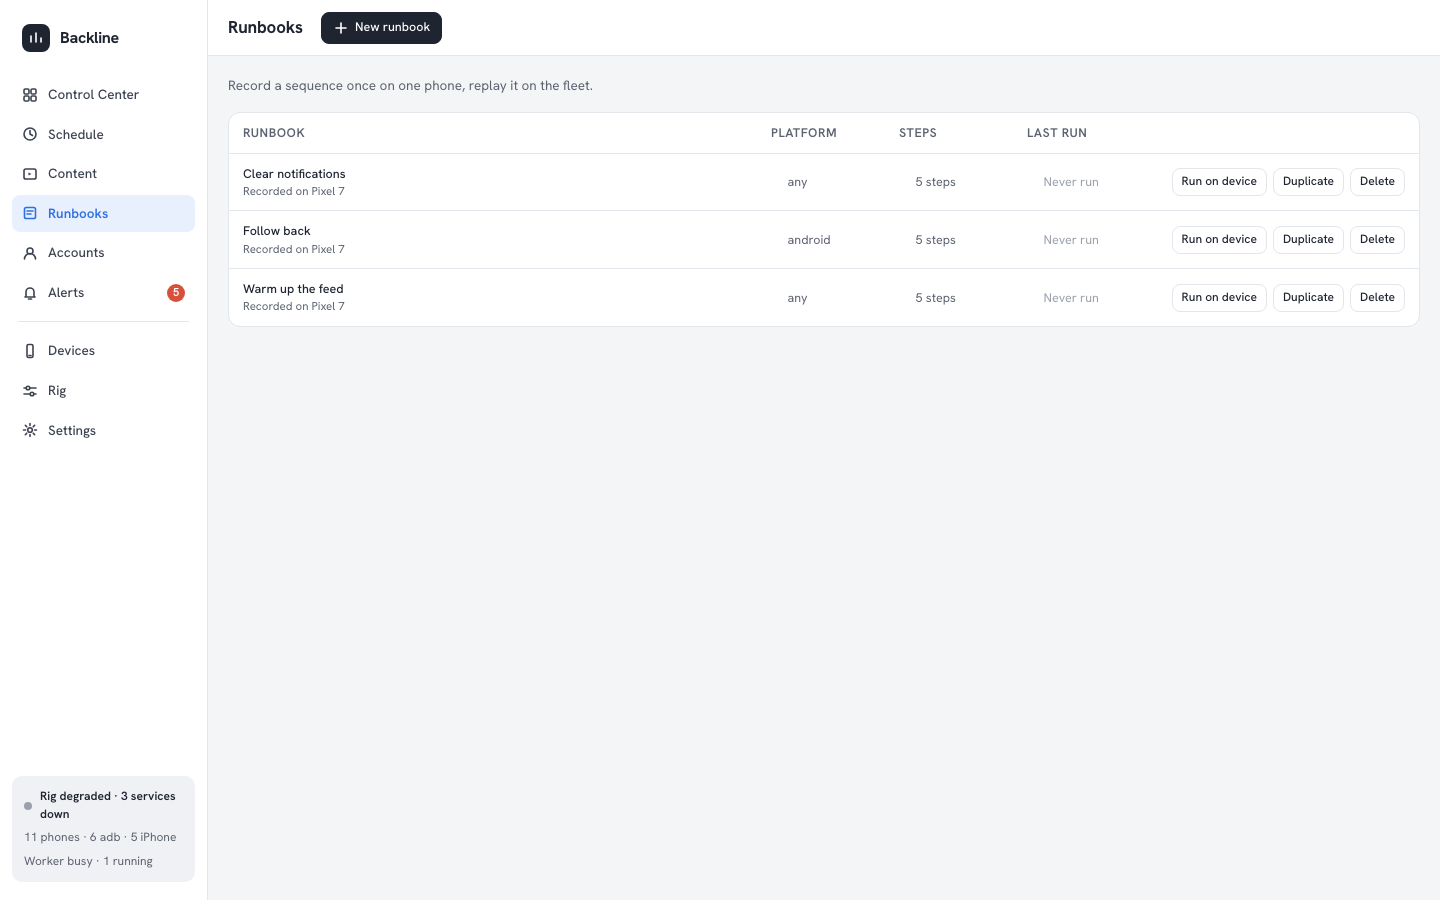
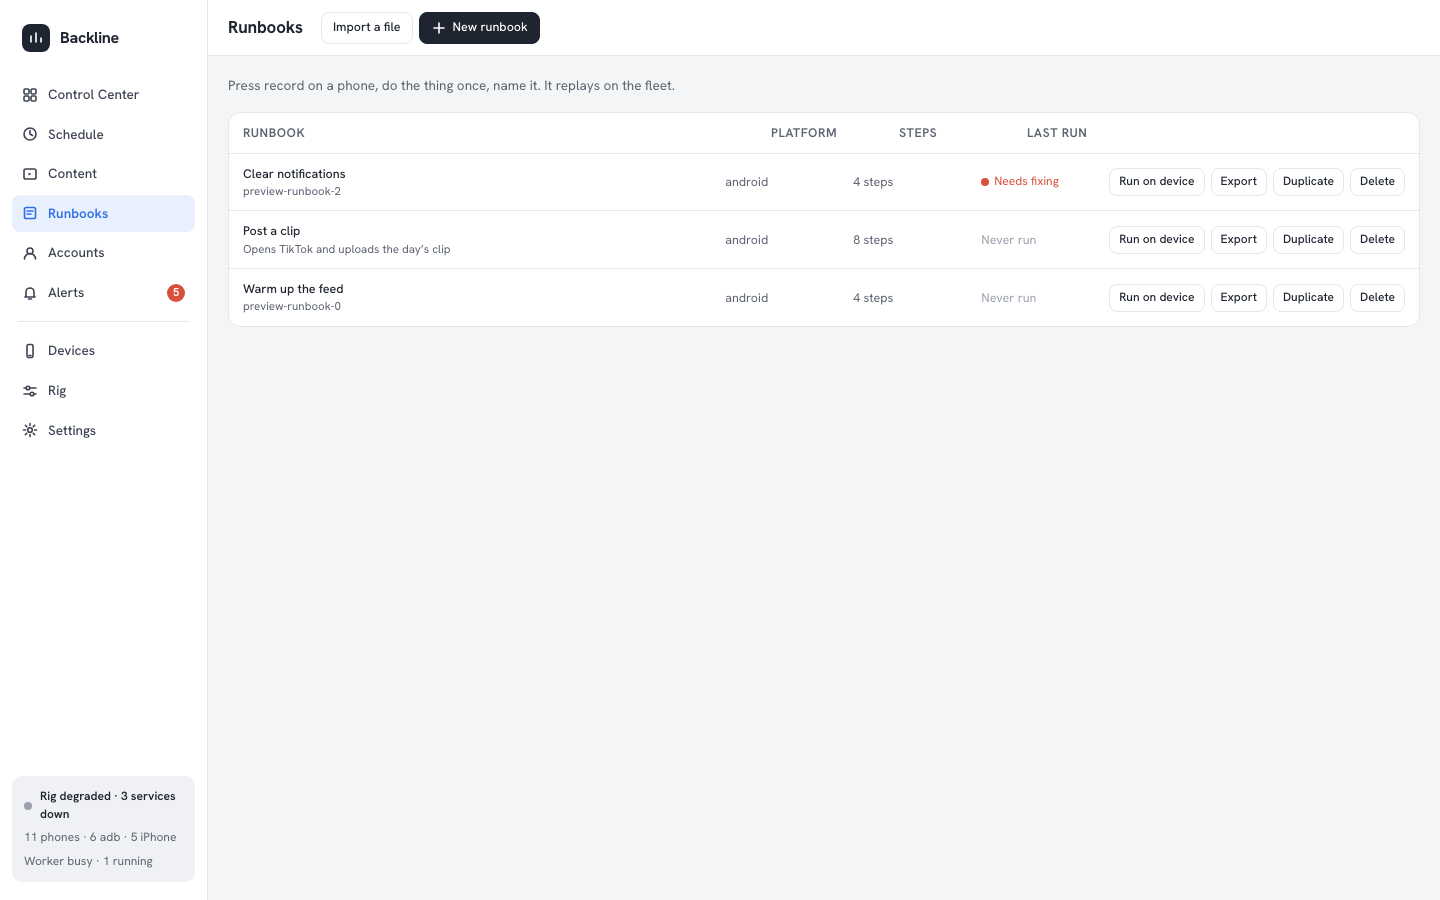
Runbooks: document the recording flow and reshoot the screenshots
docs/runbooks.md now opens on making a runbook in under two minutes — press record, drive the
phone, watch it narrate, press Done — and keeps the engine's reference material underneath. The
page preview seeds a runbook recorded the way the recorder records one, including a failure to
repair; screenshots at 1440x900.

diff --git a/static/dashboard/pages.css b/static/dashboard/pages.css
@@ -202,7 +202,7 @@
 .bl-rb-repair { display: flex; gap: 16px; margin-top: 14px; padding: 12px; border-radius: 10px; background: var(--bl-bad-soft); border: 1px solid var(--bl-bad-line); }
 .bl-rb-repair-copy { flex: 1; min-width: 0; display: flex; flex-direction: column; gap: 8px; font-size: 12.5px; }
 .bl-rb-repair-shot { flex: none; width: 180px; }
-.bl-rb-shot { width: 100%; border-radius: 10px; border: 1px solid var(--bl-line); display: block; }
+.bl-rb-shot { width: 100%; max-height: 300px; object-fit: contain; object-position: top; border-radius: 10px; border: 1px solid var(--bl-line); display: block; background: var(--bl-panel-2); }
 .bl-rb-try { display: flex; gap: 16px; align-items: flex-start; }
 .bl-rb-try-screen { flex: none; width: 200px; display: flex; }
 .bl-rb-try-story { flex: 1; min-width: 0; }

diff --git a/docs/runbooks.md b/docs/runbooks.md
@@ -1,12 +1,72 @@
 # Runbooks — record once, replay on the fleet
 
-A **runbook** is a recorded sequence of taps, swipes and typing on one phone that replays on any
-registered device, with per-step verification, waits and retries. It is scheduled like any other
-task, through the same scheduler, on the same device queues.
+A **runbook** is a recording of what you did on one phone, replayed on any registered device. You
+press record, do the thing once, and give it a name. That is the whole of it: there is no step
+type to choose, no timeout to guess, no retry count to set and no brace to type.
 
 Where the commercial farms replay pixels, this one replays **intent**: every recorded tap keeps the
 accessibility identity of the control it hit, and replay looks that control up again on the target
 device. The recorded screen position is only the last resort.
+
+## Making one, in under two minutes
+
+1. **Press record.** On the Control Center, select a phone and press **Record what I do next** in
+   the inspector; or open the phone's own page and press the same button in the **Runbooks** panel.
+   The runbook is created for you, under a placeholder name, and a red **Recording** bar appears.
+2. **Drive the phone.** Click to tap, drag to swipe, type into the text box, press the hardware
+   buttons. Every action is written down.
+3. **Watch it narrate.** Beside the phone, each action arrives as a sentence — *Opened TikTok*,
+   *Tapped Create*, *Swiped up*, *Typed the caption*, *Pressed back*. Each line carries a dot:
+   green when the control was captured by its identifier or its label, amber when only the
+   position was caught. An amber line offers **Pick the label**, which lists the texts that were on
+   that screen at that moment; one click makes the step replay anywhere.
+4. **Press Done.** You are asked for a name, and optionally one line about what it is for. Nothing
+   else: the phone type is a fact about the recording — *Recorded on Pixel 7 · works on Android;
+   iPhone untested* — not a question.
+
+![A recorded runbook, as sentences](design/screenshots/runbook-story.png)
+
+### Waits appear by themselves
+
+While recording, the screen is read before and after every action. When it materially changed —
+new, distinct texts appeared — the recorder puts a wait in front of whatever you do next, narrated
+as *Waited for "Upload a video" to appear*. That is the pause you sat through, written down as
+something the replay can check, rather than a sleep somebody guessed at.
+
+### Blanks instead of variables
+
+After recording, every typed line asks one question, inline: **is this always the same, or does it
+change each run?** "Always the same" answers it for good. "It changes each run" turns the line into
+a named blank, and every run of that runbook offers a field for it, with the last answer already
+filled in. `{{name}}` is only how a blank is stored; nobody has to type it.
+
+### Try it now
+
+**Run it on this phone now** replays the runbook on the recording phone immediately, in process —
+no queue, no worker. The phone's live screen sits beside the sentences, and each one lights up as
+it runs. If a step cannot be found, the run stops at that sentence and says what the screen showed.
+
+### Fix on failure
+
+A failed run leaves a repair panel on the runbook's page: the sentence that gave up, the reason,
+the screenshot the replay took at that moment, and **Pick the right button** over the texts that
+were actually on screen. Choose one and press **Try again**. The failed execution's alert and the
+device's activity block both carry a **Fix it** link straight to it.
+
+![Repairing a failed run](design/screenshots/runbook-fix.png)
+
+### The raw steps
+
+Everything above is a view of the same engine, and the engine is still reachable: **The raw steps**
+on the runbook's page opens the step table, with types, retries, timeouts and the optional flag.
+Every sentence also has a **Details** disclosure holding its step JSON. Nobody has to look, and
+nothing is hidden from whoever wants to.
+
+### Moving one between farms
+
+**Export** downloads a runbook as a `.json` file; **Import a file** on the Runbooks page reads one
+back. An imported file is validated field by field like any other body, and lands under a fresh id
+— importing never overwrites what is already there.
 
 ## Concepts
 
@@ -33,14 +93,15 @@ migration. Copy one between farms with `scp`.
 | `launchApp` | `appId` | Bundle id on iOS, package name on Android |
 | `tap` | `target` | See *Targets* below |
 | `swipe` | `from`, `to`, `durationMs` | Points are fractions (0–1) of the screen |
-| `type` | `text` | Supports `{{variable}}` placeholders |
+| `type` | `text` | Holds `{{name}}` blanks; the page asks about them for you |
 | `key` | `key` | `home`, `back`, `recents`, `power`, `enter`, `delete`. iOS has no `back` or `recents` |
 | `wait` | `ms` | Plain sleep; aborts promptly when the execution is stopped |
 | `waitForText` | `text` or `id`, `timeoutMs` | Polls the accessibility tree |
 | `assert` | `text` or `id`, `expect: present\|absent` | Fails the run when the screen disagrees |
 | `screenshot` | `label` | Captured into the execution log |
 
-Every step also takes `retries` (0–10), `retryDelayMs`, and `optional`. An **optional** step that
+Every step also takes `retries` (0–10), `retryDelayMs`, and `optional` — none of which the
+recording flow shows anyone. An **optional** step that
 keeps failing is logged and skipped instead of failing the run — the right setting for cookie
 banners, "rate this app" prompts and other things that only sometimes appear.
 
@@ -53,27 +114,15 @@ A tap target is `{ id?, text?, description?, fraction: { x, y } }`, resolved **i
 3. OCR, when a recognizer is available, for screens that draw their own controls.
 4. `fraction` — the recorded position, scaled to the target device's screen.
 
-The tap lands on the nearest *clickable* ancestor of the match, not on the label inside it.
+The tap lands on the nearest *clickable* ancestor of the match, not on the label inside it. A step
+also carries `seen`, the texts that were on screen when it was recorded, and a `type` step carries
+`fixed` once the "does it change?" question has been answered.
 
-![The Runbooks list](design/screenshots/runbooks.png)
-
-## Recording
-
-1. Create a runbook on **/runbooks** — the **New runbook** dialog takes the name,
-   platform, app id and the phone you will record on.
-2. Start recording either from the runbook's own page (**Recording** → *Record
-   on* → **Start recording**) or from the phone's page, in the **Runbooks**
-   panel. Both take the same lock, so a phone records into one runbook at a time,
-   and whichever surface you started from, the other shows the recording banner.
-3. Drive the phone with the normal remote control — click to tap, drag to swipe, type into the
-   text box. Each action appears in the panel's step list as it is recorded.
-4. Press **Stop recording**, then tidy the steps in the editor's step table: add `waitForText`
-   where the app is slow, mark flaky steps `optional`, add retries.
-
-![The runbook editor](design/screenshots/runbook-editor.png)
+## Recording, underneath
 
 While recording, the server enriches every action with the accessibility tree it captured
-**before** that action landed, which is what lets it name the control you tapped. An empty runbook
+**before** that action landed, which is what lets it name the control you tapped, and the texts on
+that screen are stored on the step so "pick the label" can offer them later. An empty runbook
 adopts the recording phone's udid, screen and platform.
 
 ### Recording tips
@@ -82,16 +131,16 @@ adopts the recording phone's udid, screen and platform.
   control that fits a small screen is on every larger one.
 - **Prefer taps on labelled controls.** A button with a `resource-id` or a visible label replays
   everywhere; a tap on a blank area of a custom canvas only replays on that screen ratio.
-- **Insert `waitForText` instead of `wait`** wherever you are waiting for the app rather than for
-  an animation. It is faster on a fast phone and safer on a slow one.
+- **Let the waits insert themselves.** A pause you take while recording becomes a `waitForText` for
+  the text that appeared, which is faster on a fast phone and safer on a slow one than a sleep.
 - **End with an `assert`.** A run that "succeeded" without reaching the screen you wanted is worse
   than a failure.
 - Recording captures input only. Lock, wake, unlock and the volume keys are device-state actions
   and are refused as steps.
 
-## Variables
+## Blanks, underneath
 
-Any `type` step may contain `{{name}}` placeholders. Supply the values when the task is created:
+A blank is a `{{name}}` placeholder in a `type` step. Supply the values when the task is created:
 
 ```jsonc
 { "pluginId": "com.farm.runbook", "taskType": "run", "taskVersion": 1,
@@ -127,7 +176,14 @@ is reported as stopped rather than failed.
 | `POST` | `/api/runbooks/:id/record/start` | `{ udid }` |
 | `POST` | `/api/runbooks/:id/record/stop` | — |
 | `POST` | `/api/runbooks/:id/steps` | `{ action }` — called by the device page while recording |
+| `POST` | `/api/runbooks/record/here` | `{ udid }` — create a runbook and start recording on that phone |
+| `POST` | `/api/runbooks/:id/name` | `{ name, description? }` — what Done asks for |
 | `GET` | `/api/devices/:udid/runbook-recording` | Whether this device is recording |
+
+The dashboard's own surfaces live under `/plugins/com.farm.runbook/…`: `runbooks/:id/story`,
+`runbooks/:id/try`, `runbooks/:id/progress`, `runbooks/:id/steps/:index/target`,
+`runbooks/:id/steps/:index/blank`, `runbooks/:id/export`, `runbooks/import` and
+`runbooks/:id/failure.png`. They return HTMX fragments, not JSON.
 
 ## Limits
 
@@ -136,8 +192,12 @@ is reported as stopped rather than failed.
 - **The fraction fallback is approximate across screen ratios.** A tap recorded at (0.5, 0.82) on a
   20:9 phone is not the same control on a 16:9 tablet. Targets with an id or a label are the ones
   that travel; check any fraction-only step when you add a new phone model.
-- **Recording is in-process.** Restarting `web` ends any open recording; the steps already recorded
-  are on disk.
+- **Recording is in-process, and so is "run it on this phone now".** Restarting `web` ends any open
+  recording and forgets any run being watched; the steps already recorded are on disk.
+- **An auto-inserted wait is a guess, a good one.** It waits for the most distinctive text that
+  appeared while you waited. If the app says something different next time, the wait fails after
+  15 seconds and the repair panel shows you what was on screen instead.
+- **Only one screenshot per runbook is kept**, the one from the latest failure.
 - Steps are appended in the order the browser's requests arrive. Very fast taps (faster than the
   round trip) can in principle land out of order — record at a human pace.
 - A runbook holds at most 200 steps. Long flows read better, and fail more usefully, as several
